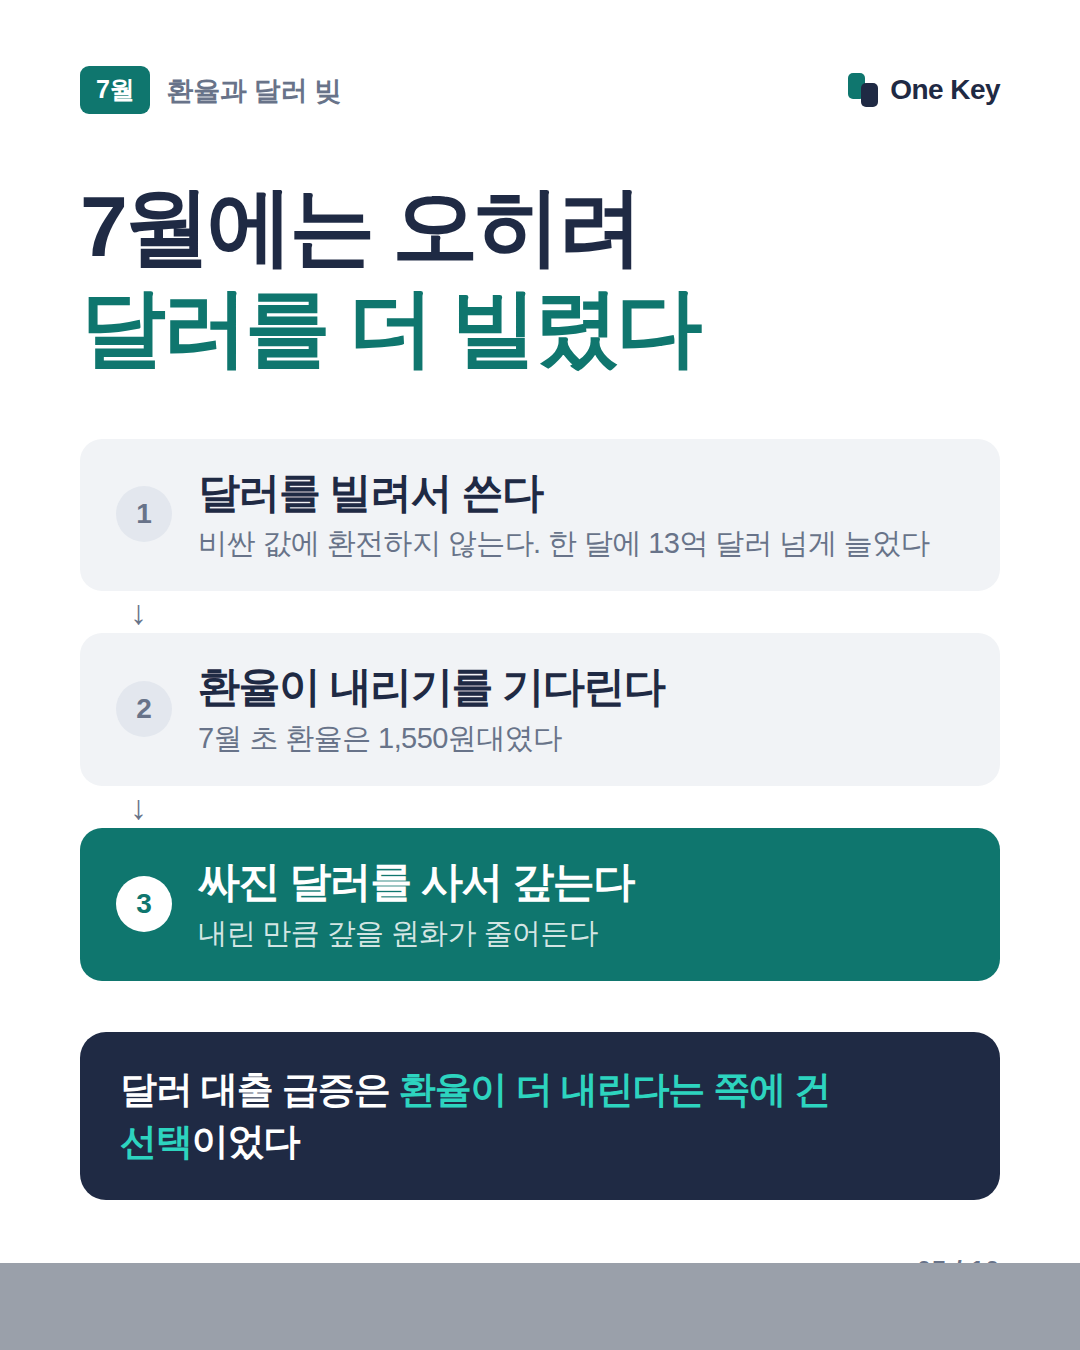
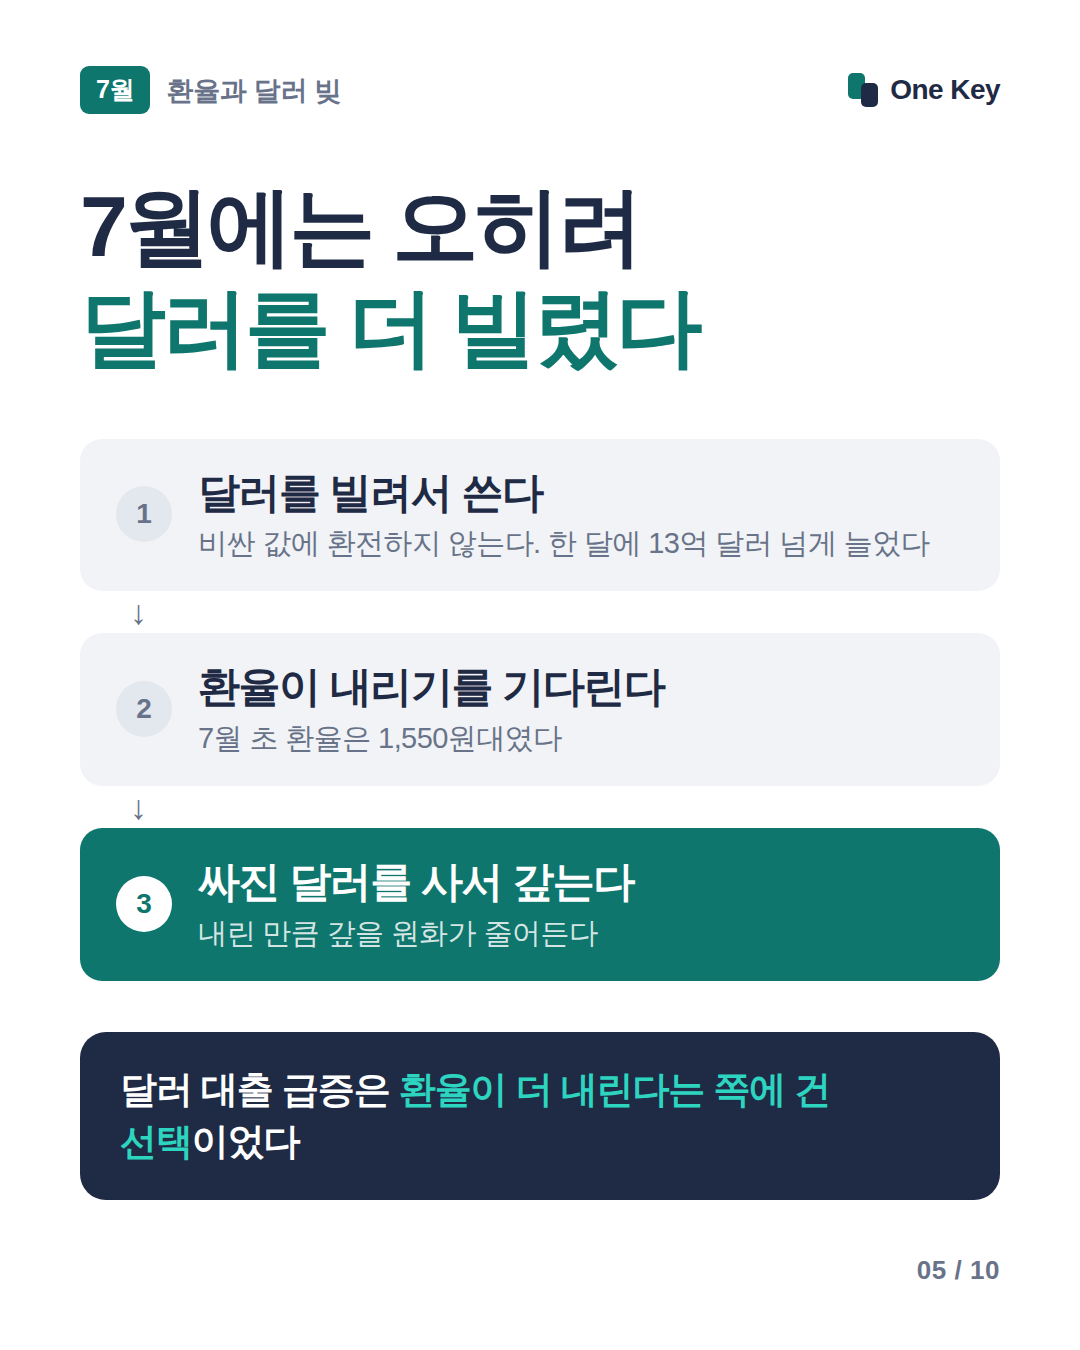
카드 뽑기 시험 결과
Claude-Session: https://claude.ai/code/session_01UqD1Wxewdea77LqZ5HWLtB

Changed region(s): [[0.0, 0.9333, 1.0, 1.0]]

diff --git a/cards/시험결과.md b/cards/시험결과.md
@@ -1,17 +1,17 @@
-# 카드 뽑기 시험 결과 (2026-10-05, 클라우드 환경)
+# 카드 뽑기 시험 결과 (2026-10-05, 클라우드 환경, 두 번째 실행)
 
 | 항목 | 판정 |
 |---|---|
 | 크롬 | 있었음 (PATH에는 없고 `/opt/pw-browsers/chromium-1194/chrome-linux/chrome`에 미리 깔려 있음. `CARD_CHROME`으로 알려 줌) |
 | 뽑기 | 됨 (10장 PNG + 모음.png + 올릴것/ JPG 10장) |
 | 자동 점검 | 걸림 (04번 장: 넘침 11px) |
-| 글꼴 | 안 떴음 (Pretendard 못 받음. 한글은 시스템 대체 글꼴로 나옴. 아래 참고) |
-| 글꼴 주소 접속 | 안 됨 (403, CONNECT tunnel failed) |
-| 사진 파일 접속 | 안 됨 (403, CONNECT tunnel failed) |
-| 사진 창구 접속 | 안 됨 (403, CONNECT tunnel failed) |
-| 뽑는 데 걸린 시간 | 약 10.8초 |
+| 글꼴 | 떴음 (자동 점검의 글꼴 항목이 걸리지 않음. 02.png 눈으로는 대체 글꼴과 구별 못 함) |
+| 글꼴 주소 접속 | 됨 (200) |
+| 사진 파일 접속 | 됨 (200) |
+| 사진 창구 접속 | 됨 (301, 접속은 된 것) |
+| 뽑는 데 걸린 시간 | 약 14.4초 |
 
-참고: 02.png를 열어 보니 한글은 깨지지 않았으나 Pretendard가 아닌 대체 글꼴이다. 또 이미지 맨 아래에 회색 띠가 보이고 쪽번호가 잘려 있다(화면 높이 문제로 보이나 원인 미확인).
+참고: 앞선 실행에서는 세 주소 모두 403(CONNECT tunnel failed)이었고 글꼴도 안 떴다. 이번에는 세 주소 모두 열렸다. 환경의 네트워크 허용이 바뀐 것으로 보인다.
 
 ## 2. 환경 조사
 ```
@@ -31,17 +31,13 @@ Chromium 141.0.7390.37
 
 ## 3. 접속
 ```
-$ curl -sS -o /dev/null -w "%{http_code}" <Pretendard css>
-curl: (56) CONNECT tunnel failed, response 403
-000
-$ curl ... "https://images.unsplash.com/photo-1593672715438-d88a70629abe?w=200"
-curl: (56) CONNECT tunnel failed, response 403
-000
-$ curl ... https://api.unsplash.com/
-curl: (56) CONNECT tunnel failed, response 403
-000
+$ curl -sS -o /dev/null -w "%{http_code}" https://cdn.jsdelivr.net/gh/orioncactus/pretendard@v1.3.9/dist/web/variable/pretendardvariable.min.css
+200
+$ curl -sS -o /dev/null -w "%{http_code}" "https://images.unsplash.com/photo-1593672715438-d88a70629abe?w=200"
+200
+$ curl -sS -o /dev/null -w "%{http_code}" https://api.unsplash.com/
+301
 ```
-(프록시가 막은 것이라 401/403 응답과는 다르다. 접속 자체가 안 됨.)
 
 ## 4. pillow
 ```
@@ -50,7 +46,7 @@ Successfully installed pillow-12.3.0
 ```
 
 ## 5. 크롬
-PATH에는 없었으나 `/opt/pw-browsers/chromium-1194/chrome-linux/chrome`가 이미 있어 설치 불필요. `export CARD_CHROME=/opt/pw-browsers/chromium-1194/chrome-linux/chrome`.
+이미 있어서 설치하지 않았다. `export CARD_CHROME=/opt/pw-browsers/chromium-1194/chrome-linux/chrome`.
 
 ## 6. 뽑기
 ```
@@ -58,14 +54,14 @@ $ python3 cards/tools/render.py "cards/편/2026-10-05_환율" --jpg
 10장 → /home/user/onekey-invest.github.io/cards/편/2026-10-05_환율
 점검에서 걸린 것:
  - 04번 장: 넘침 11px
-(종료 코드 1, 걸린 시간 10.797초)
+(종료 코드 1, 걸린 시간 14.387초)
 ```
 
 ## 7. 결과물
 ```
 $ ls -la "cards/편/2026-10-05_환율"
-01.png 1390266 / 02.png 89211 / 03.png 948261 / 04.png 78741 / 05.png 92502
-06.png 90877 / 07.png 101991 / 08.png 96418 / 09.png 62151 / 10.png 92672
-deck.html 9337 / img/ / 모음.png 880024 / 올릴것/ (01~10.jpg)
+01.png 1400388 / 02.png 94009 / 03.png 990041 / 04.png 82697 / 05.png 97191
+06.png 95385 / 07.png 106662 / 08.png 100561 / 09.png 65817 / 10.png 96650
+deck.html 9337 / img/ (cover.jpg, inner.jpg) / 모음.png 883194 / 올릴것/ (01~10.jpg)
 01.png 크기: 1080×1350
 ```
